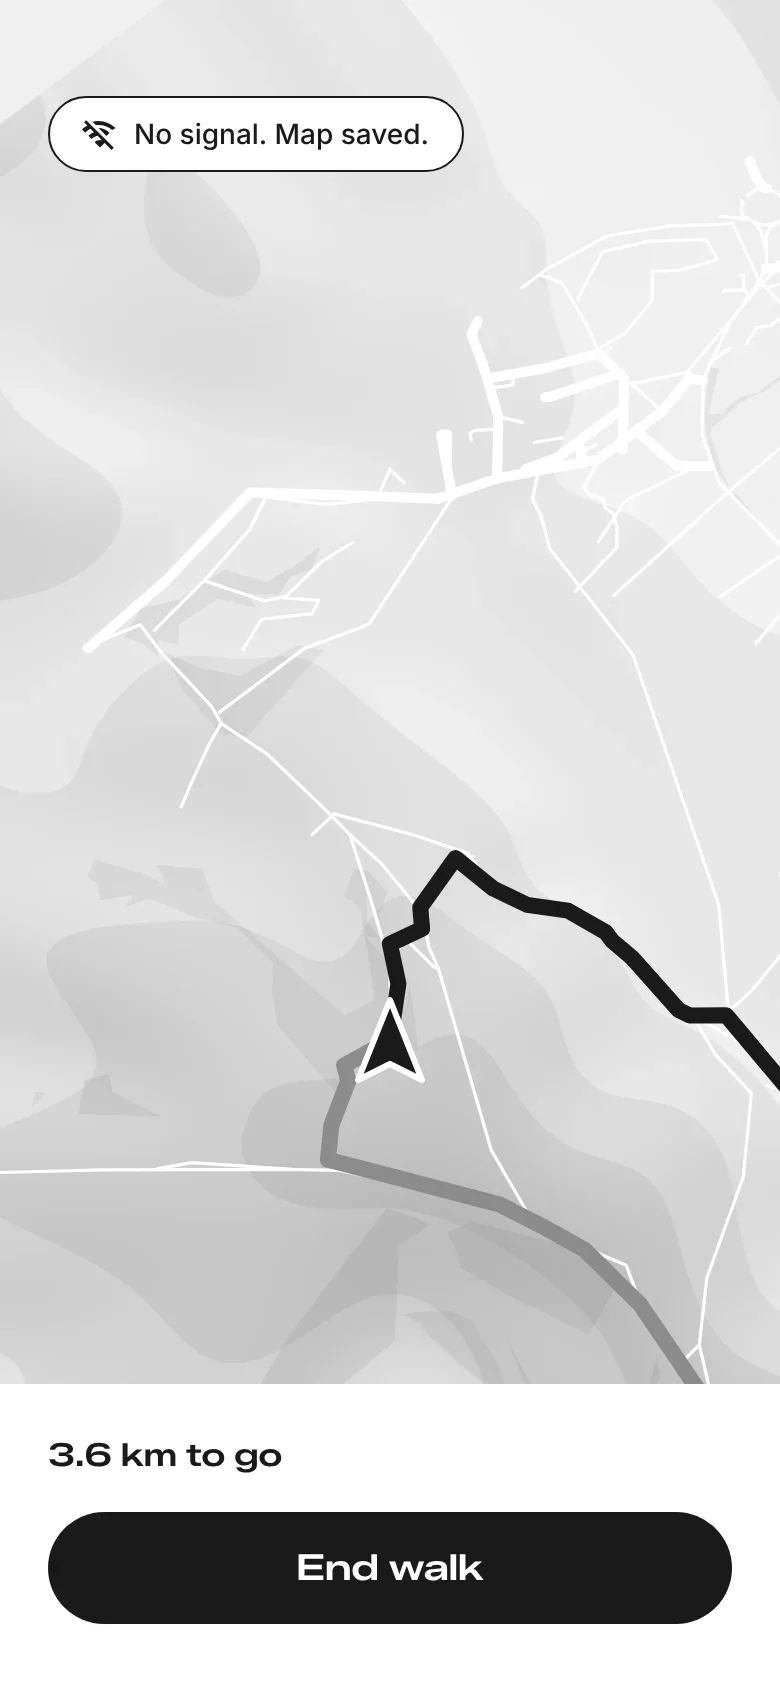
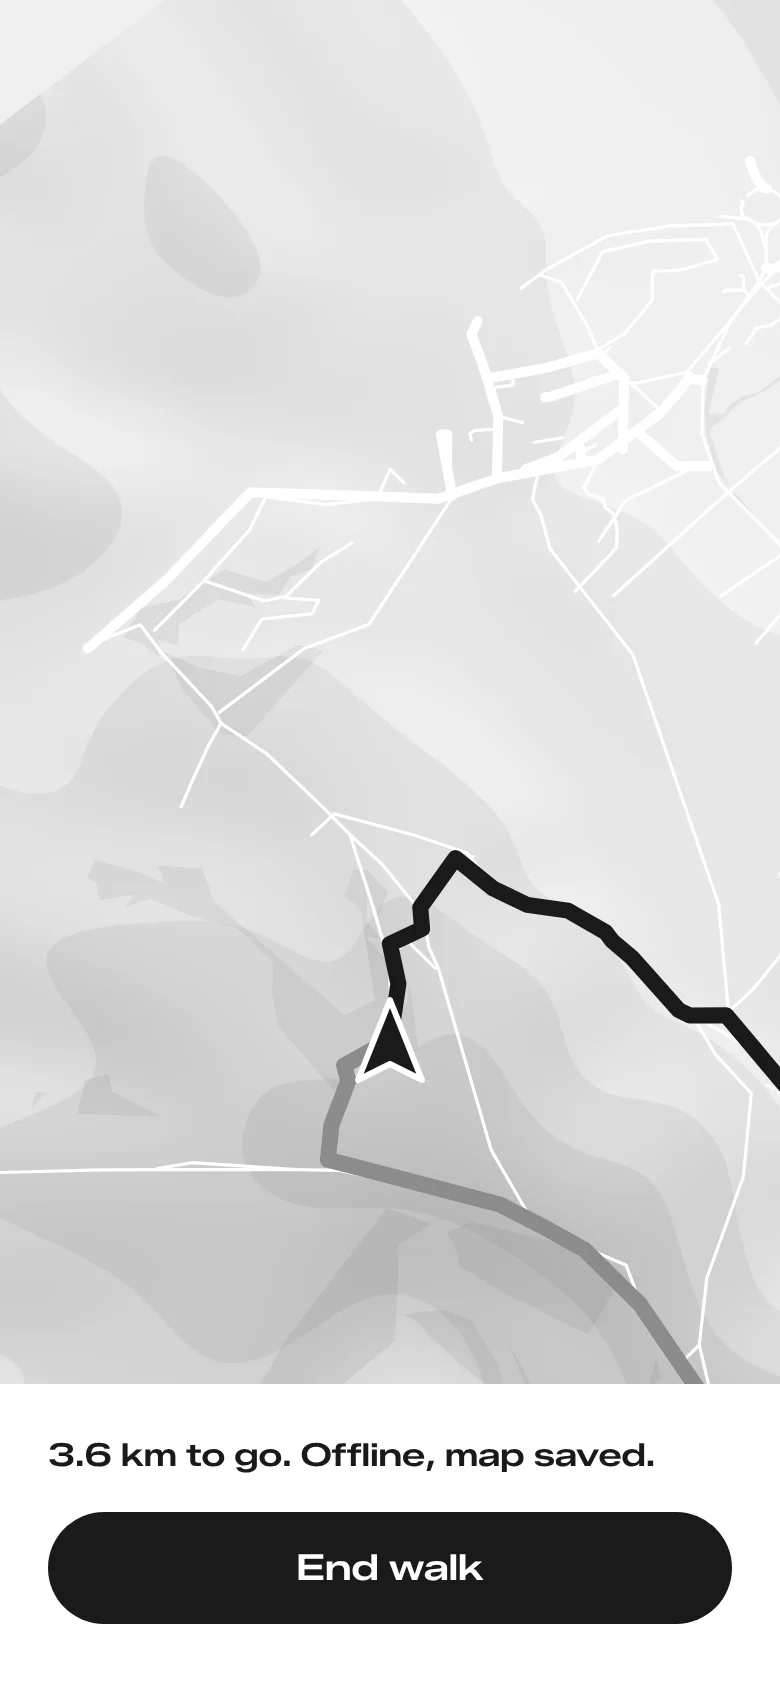
Beta: offline note moves into the km-to-go line [skip ci]
Claude-Session: https://claude.ai/code/session_01P1qx1Nu81iu1DCBX67eGk5

diff --git a/site/beta/index.html b/site/beta/index.html
@@ -212,7 +212,7 @@ html.menu-open .menu i:last-child{top:23px;transform:rotate(-45deg)}
       <div><h2>Nothing to unlock.<br>One price.</h2>
         <p>Offline maps, the wrong-way buzz and every walk are included. No account, no sign-up.</p>
         <span class="btn soon">Coming soon</span></div>
-      <div class="mphone"><div class="phone"><i class="frame"></i><div class="screen"><img src="screens/offline.webp" alt="Walking with no signal: the map and route still on screen, with a chip saying No signal. Map saved." loading="lazy"></div></div></div>
+      <div class="mphone"><div class="phone"><i class="frame"></i><div class="screen"><img src="screens/offline.webp" alt="Walking with no signal: the map and route still on screen, and the line under it reads 3.6 km to go. Offline, map saved." loading="lazy"></div></div></div>
     </section>
   </div>
   <div class="park" aria-hidden="true"><div class="phone" id="ph">
